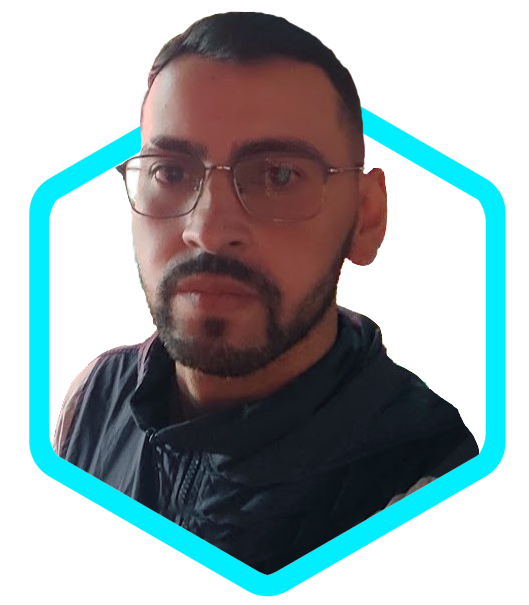
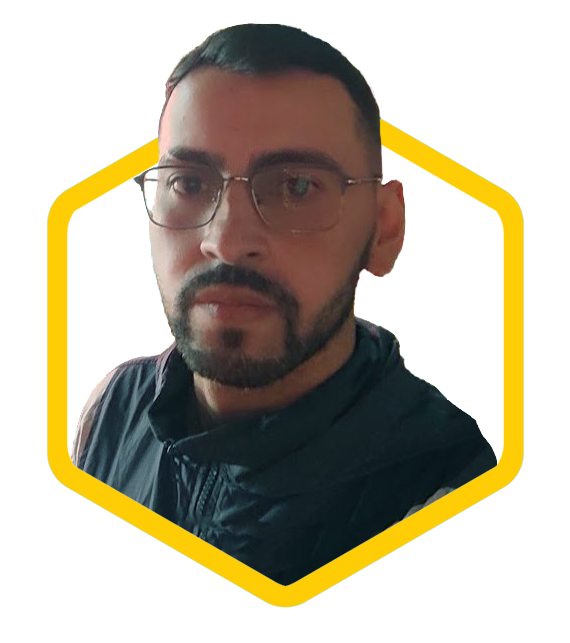
cambio de colores

Changed region(s): [[0.0302, 0.0, 0.9679, 1.0], [0.4537, 0.7736, 0.4839, 0.8628]]

diff --git a/css/style.css b/css/style.css
@@ -13,10 +13,10 @@
 }
 
 :root{
-    --bg-color: #1f242d;
-    --second-bg-color: #323946;
-    --text-color: #fff;
-    --main-color: #0ef;
+    --bg-color: #2D2D2D;
+    --second-bg-color: #454545;
+    --text-color: #FFFFFF;
+    --main-color: #FFC107;
 }
 
 html{
@@ -286,14 +286,14 @@ span{
 }
 
 .portfolio-layer h4{
-    font-size: 2.5rem;
+    font-size: 2.4rem;
     text-shadow: 0.2rem 0.2rem 0.4rem rgba(0, 0, 0, 0.5);
    
 }
 
 .portfolio-layer p{
-    font-size: 1.3rem;
-    margin: 3rem 0 1rem;
+    font-size: 1.4rem;
+    margin: 2.6rem 0 1rem;
     font-weight: 700;
     text-shadow: 0.2rem 0.2rem 0.4rem rgba(0, 0, 0, 0.5);
 }
@@ -302,8 +302,8 @@ span{
     display: inline-flex;
     justify-content: center;
     align-items: center;
-    width: 5rem;
-    height: 5rem;
+    width: 4rem;
+    height: 4rem;
     background: var(--text-color);
     border-radius: 50%;
 }
